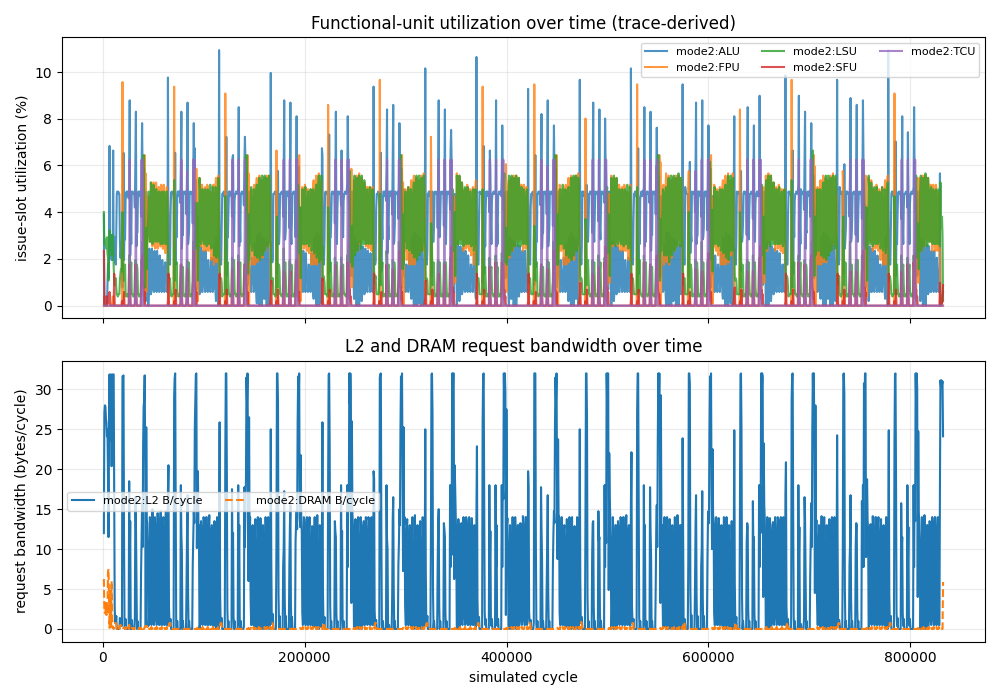
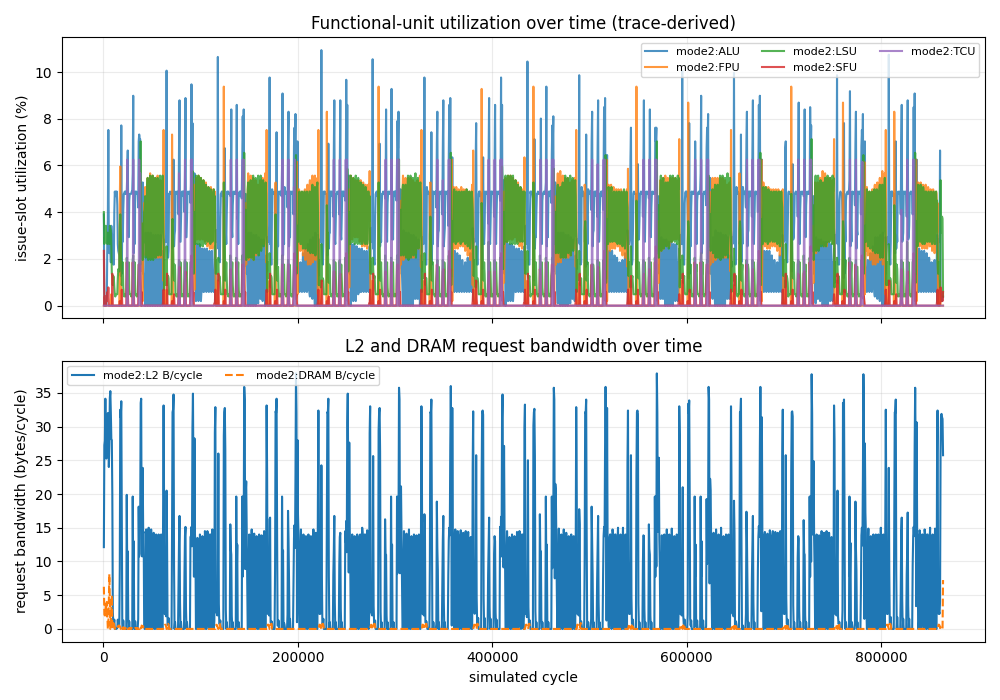
docs: use fair SMEM-staged S2G comparison traces

diff --git a/docs/designs/figures/README.md b/docs/designs/figures/README.md
@@ -6,8 +6,9 @@ These three plots were generated from DEBUG=4 SimX traces produced on
 ring. Each trace was filtered only to pipeline-issue, L2 request, and DRAM
 request records before plotting with `plot_util_timeline.py`.
 
-The measured cycle counts are in `steady_kernel_metrics.csv`. S2G is 1.46x
-faster than the LSU-load/global-store baseline, but remains 1.98% slower than
-the current TMA-load/global-store path. The plots therefore document genuine
-steady-state activity and the current bottleneck; they are not presented as a
-fabricated S2G speedup over the already asynchronous TMA baseline.
+The measured cycle counts are in `steady_kernel_metrics.csv`. For the fair
+staged comparison, S2G is 1.066x faster than the TMA-load path whose output is
+also staged in SMEM and then copied with LSU stores, and 1.534x faster than the
+LSU-load/global-store baseline. The older direct-register global-store mode is
+not used for this claim because it does not have the same cross-warp SMEM
+ownership requirement.
